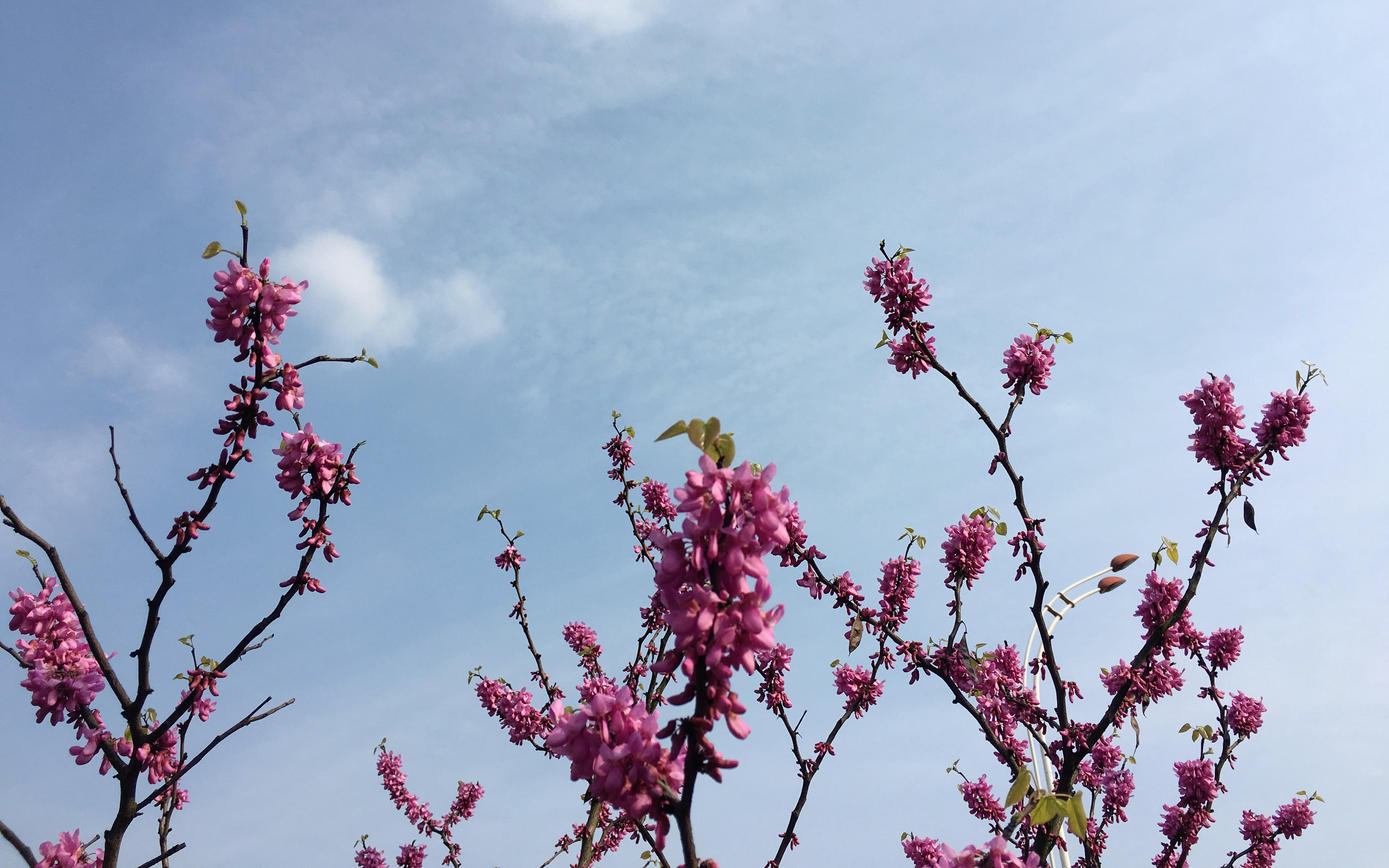
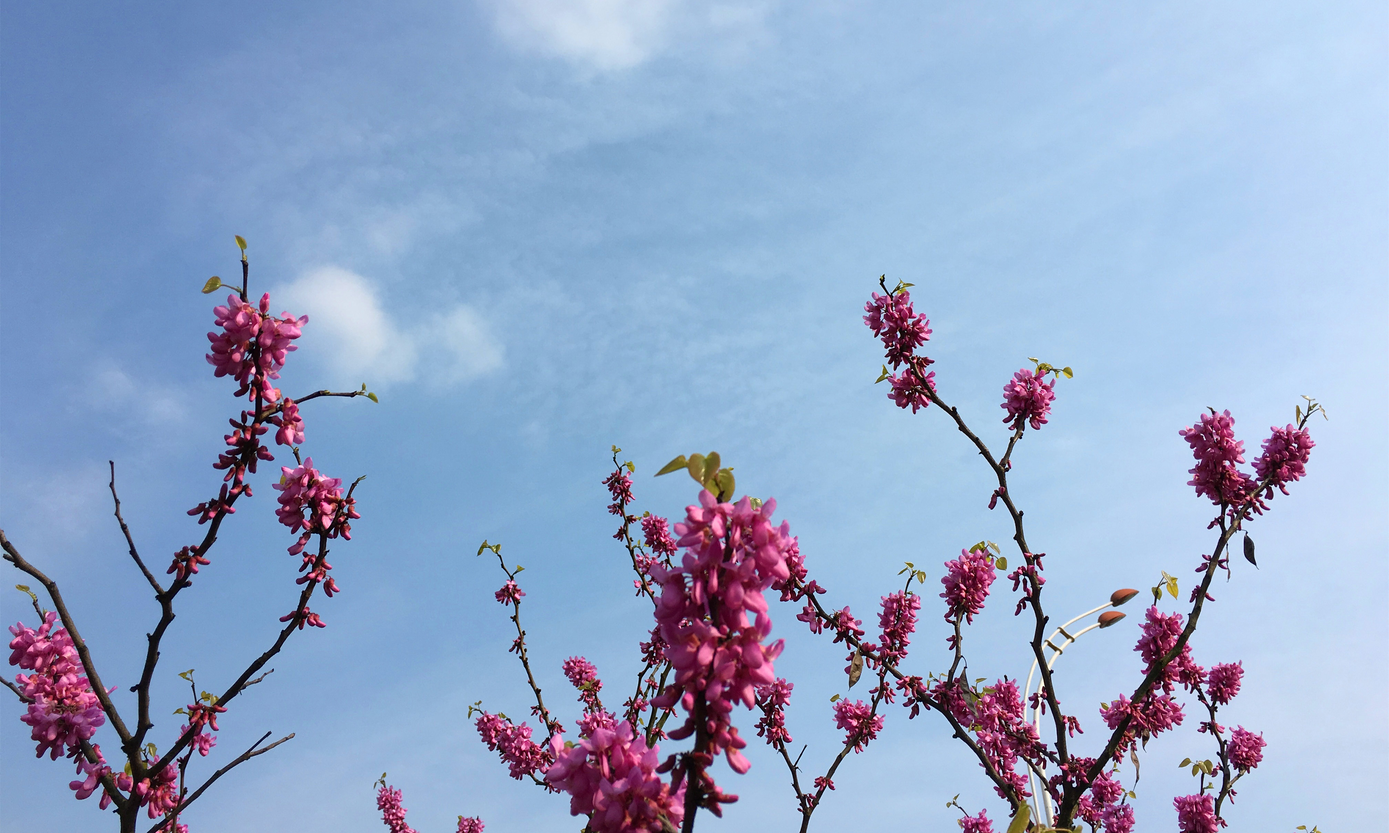
on the road

diff --git a/assets/css/main.css b/assets/css/main.css
@@ -72,7 +72,7 @@ blockquote {
 }
 
 hr {
-  border-top: 1px solid #ccc;
+  border-top: 0.2px solid #ccc;
 }
 
 /*

diff --git a/_posts/2017-12-21-NYear.md b/_posts/2017-12-21-NYear.md
@@ -4,14 +4,15 @@ title: "Ｎ Year"
 author: "Xhy"
 categories: journal
 tags: [documentation,sample]
-image: haha.jpg
+image: NYear.jpg
 ---
+<i>Photo by Joshua Earle on Unsplash</i>
 
+>她说，她来的时候就有了，信不信你走的时候，我还在？最开始的時候就是自己寫寫，没想到过了些日子就变成这样了 ^_^
 
-<font color="#AAAAAA">她说，她来的时候就有了，信不信你走的时候，我还在？最开始的時候就是自己寫寫，没想到过了些日子就变成这样了 ^_^</font>
 
 <br />
-<br />
+### 正文：
 
 第539天，兴趣是最好的老师 ~
 
